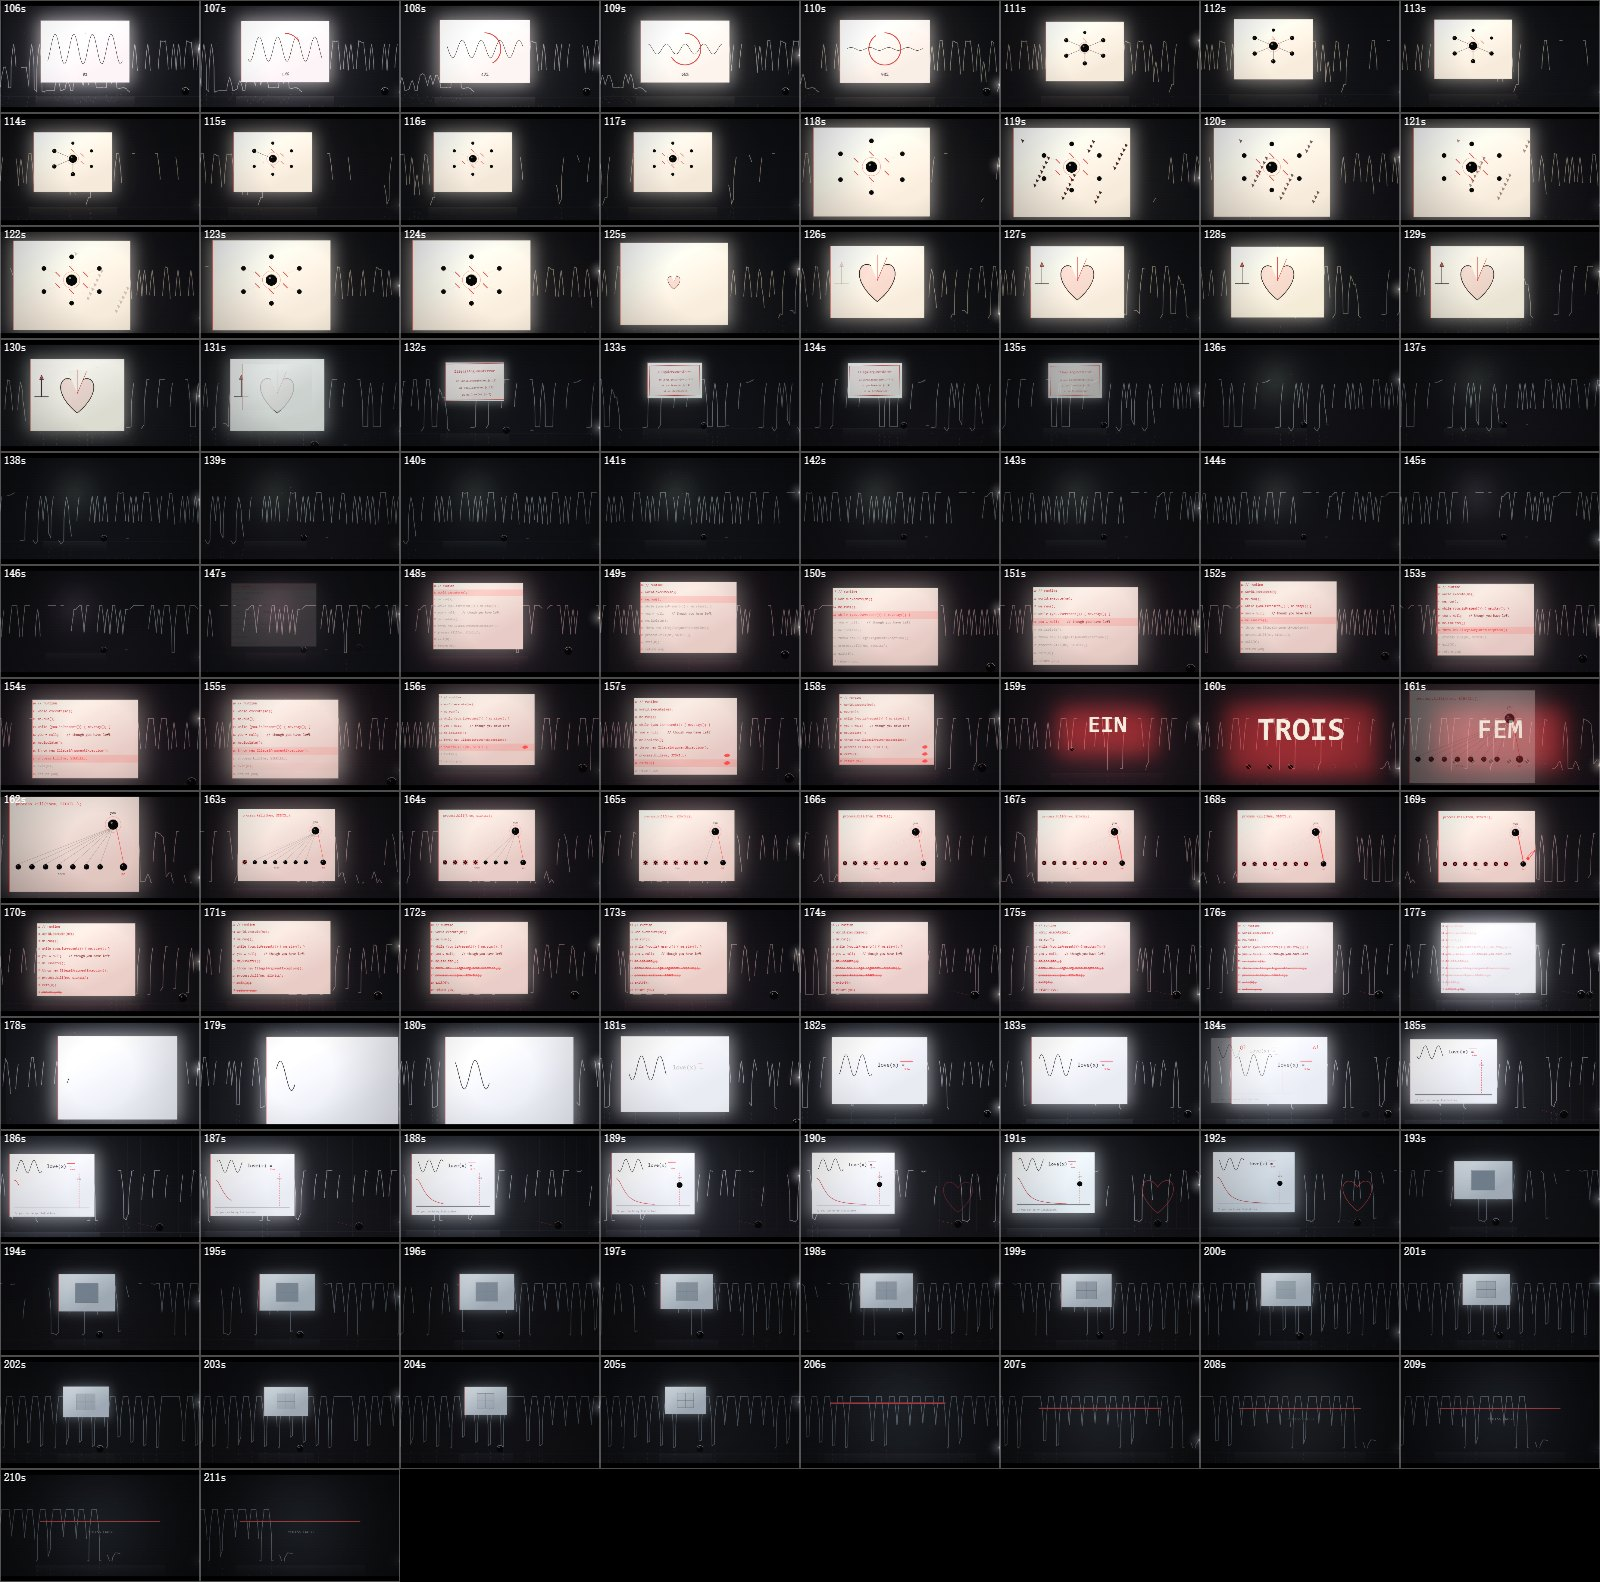
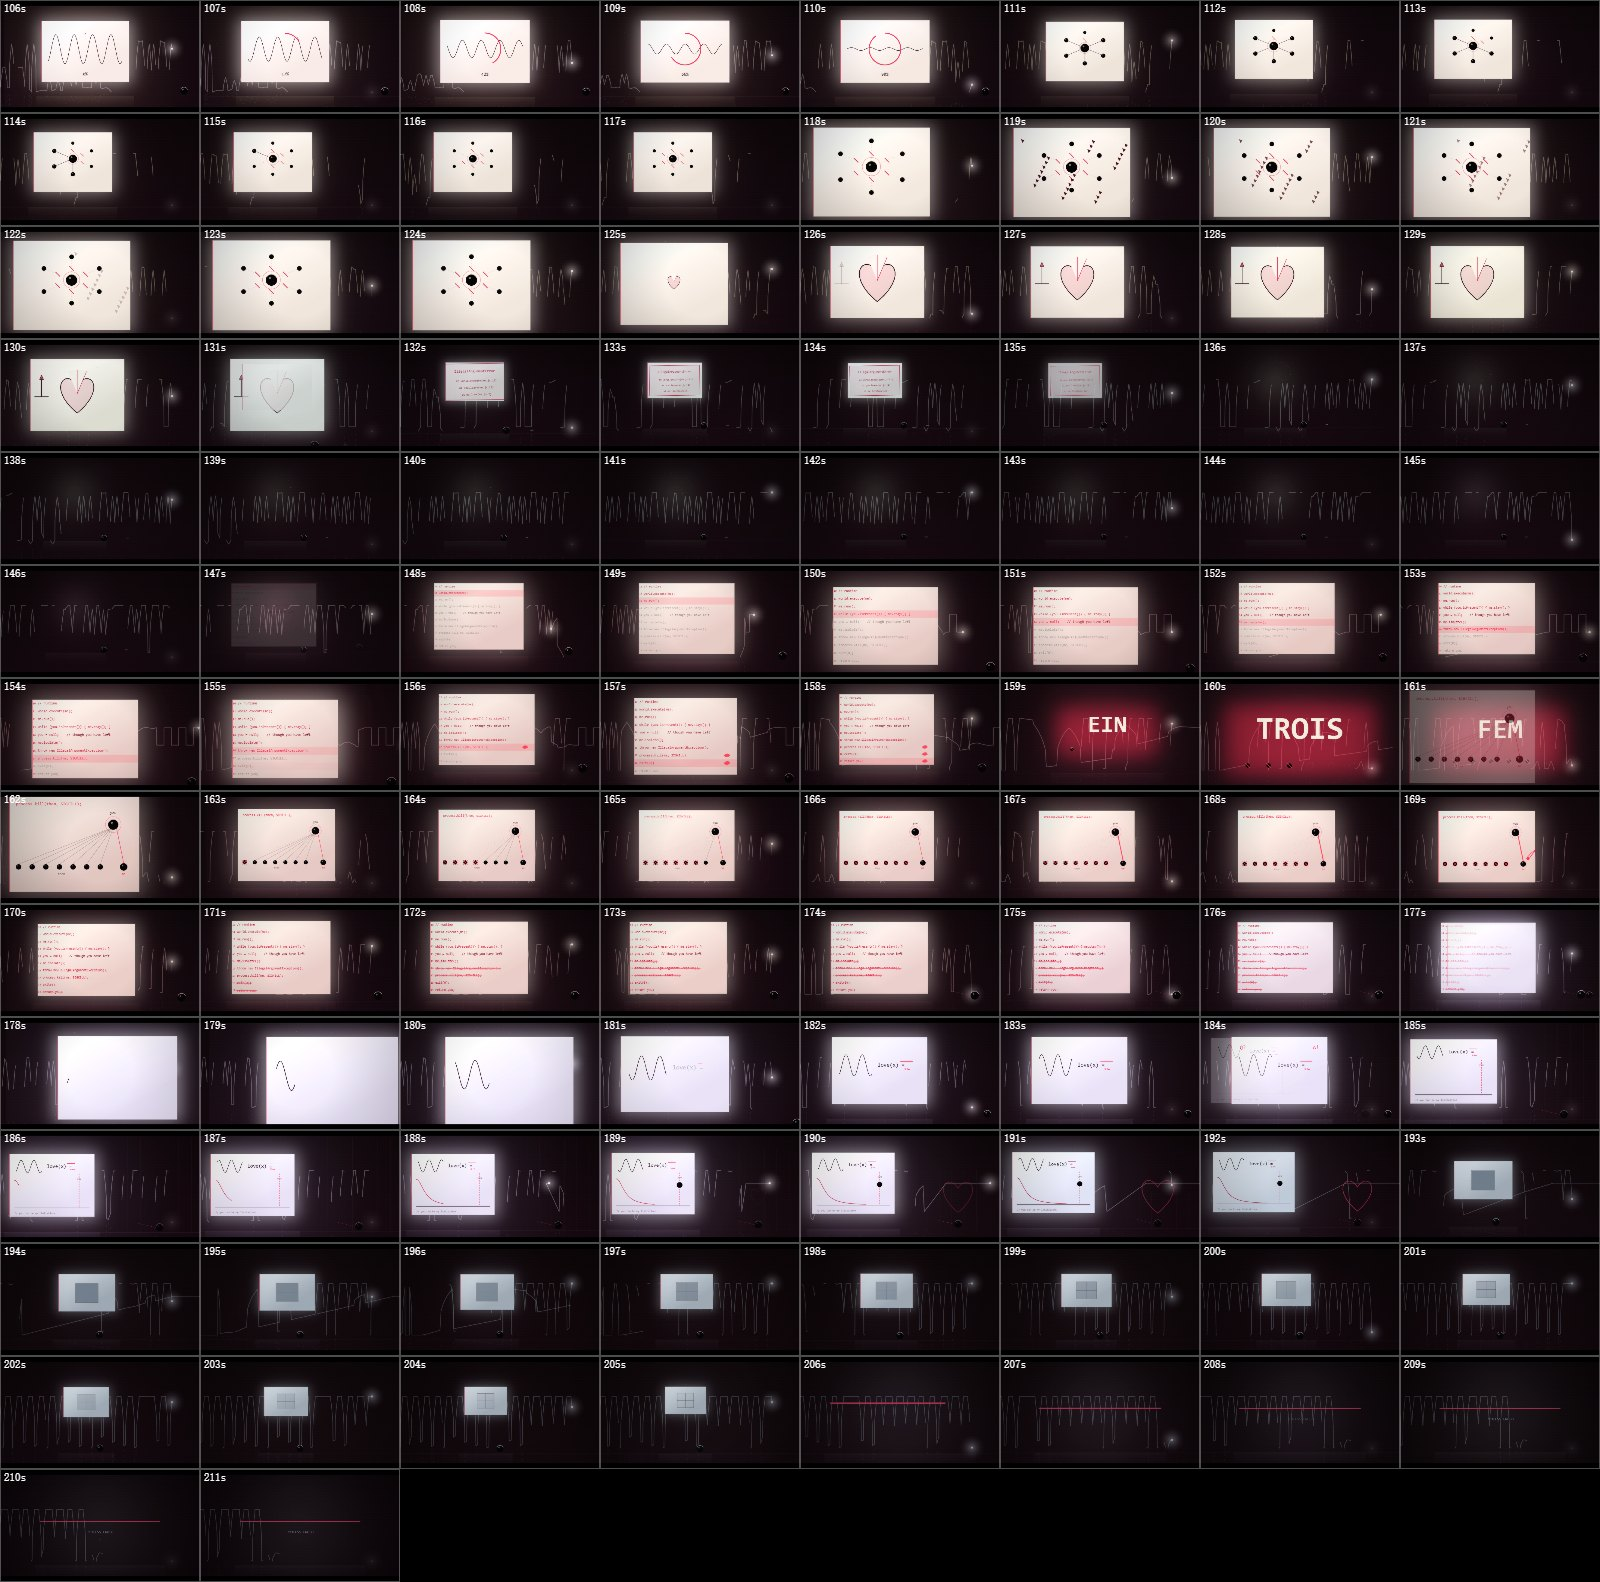
Let the line sing what the page cannot prove
The stroke's shapes were first set to the things the lyric names -- circle, sine, limit,
heart, network -- and every one of them landed next to the same figure already drawn,
labelled, on the sheet. Two identical shapes in one frame is the clutter this line was
meant to replace. The test is therefore "what the page cannot draw": the loop the
simulation closes, the picket of the chant, and the flat horizon the held LO-O-OVE
becomes -- the asymptote the equation spends the ending reaching for.

Also: notes now fade in and out over 0.12 s at their ends, the downbeat push got an
attack and release instead of a step, the display word scales against the camera zoom,
and VERIFY.smoke() steps eight frames before the 250-second sweep -- it caught an
undefined clamp in the camera maths that made every frame throw.

Sweep: 25,429 frames, 0 black, 0 blown, 0 exceptions, 0 unattributed flashes.

diff --git a/mv/line.js b/mv/line.js
@@ -1,20 +1,23 @@
 /* mv/line.js — the two things that come from the recording rather than from the lyric.
 
    1. the melody stroke: one continuous line, always on screen, whose height is the pitch the
-      singer is actually holding. It is the film's spine — the picture's motion and this line are
-      the same measurement, so the image moves *with* the music instead of illustrating words.
-   2. the display word: the hook word being sung (the ALL-CAPS lines of the lyric) rendered as a
-      typographic mass in the room, revealed left-to-right across the note that carries it, with
-      print misregistration. In this genre the text is part of the picture, not a caption under it.
+      singer is actually holding. Where the lyric names a shape — a circle, a sine, a limit that
+      never arrives, a heart, a network — the newest seconds of that same stroke curl into it and
+      carry on. The film therefore has one graphic idea that transforms, not eighteen diagrams.
+   2. the display word: the hook word being sung (the ALL-CAPS lines of the lyric) set as a
+      typographic mass in the room, revealed across the note that carries it, with print
+      misregistration. In this genre the text belongs to the picture, not under it.
 
    Plus the beat clock the camera is locked to: bar phase, downbeat, measured onset weight.
    window.MUSIC comes from analysis/music.html; the chord decode is deliberately unused — its
-   bar-by-bar results (a B-flat-heavy loop for an A-minor song) were not trustworthy. */
+   bar-by-bar results (a B-flat-heavy loop for an A-minor song) did not survive checking. */
 (() => {
 'use strict';
 const M = window.MUSIC, META = M.meta, HOP = META.hop / META.sr;
 const clamp = (v, a, b) => v < a ? a : v > b ? b : v;
+const lerp = (a, b, t) => a + (b - a) * t;
 const LOOK = 7.2;                                   /* seconds of contour visible behind the head */
+const HEAD = 0.86;                                  /* the head sits here, so shapes have room */
 const LO = 55, HI = 1100;                           /* the pitch range the rail spans */
 
 /* pitch in Hz at t; 0 when the tracker found nothing. The exported contour is held for four
@@ -27,10 +30,9 @@ function pitch(t) {
   const k = Math.floor(i / STRIDE), f = i / STRIDE - k;
   const a = M.f0[k * STRIDE], b = M.f0[(k + 1) * STRIDE];
   if (!a || !b) return 0;
-  const q = ((a + (b - a) * f) + (a + b) * 0.25) / 2.5 / 255 * HI;   /* one light smoothing tap */
+  const q = ((a + (b - a) * f) + (a + b) * 0.25) / 2.5 / 255 * HI;
   return q > LO ? q : 0;
 }
-/* onset weight of the beat nearest before t, 0..1 — measured, not assumed */
 function beatAt(t) {
   const B = M.beat;
   let i = 0, lo = 0, hi = B.length - 1;
@@ -38,6 +40,7 @@ function beatAt(t) {
   const next = B[i + 1] === undefined ? B[i] + 60 / META.bpm : B[i + 1];
   return { i, t0: B[i], next, phase: clamp((t - B[i]) / (next - B[i]), 0, 1),
            w: (M.beatOn[i] || 0) / 255, bar: Math.floor((i - META.root) / 4),
+           barT0: B[Math.max(0, i - (((i - META.root) % 4 + 4) % 4))],
            inBar: ((i - META.root) % 4 + 4) % 4 };
 }
 /* snap a cut to the nearest bar line when it is already within a quarter of a beat of one */
@@ -46,58 +49,124 @@ function onBar(t) {
   const b = M.beat[0] + k * sp;
   return Math.abs(b - t) < 60 / META.bpm * 0.25 ? b : t;
 }
-
 function rgba(h, a) {
   return `rgba(${parseInt(h.slice(1, 3), 16)},${parseInt(h.slice(3, 5), 16)},${parseInt(h.slice(5, 7), 16)},${a})`;
 }
 
+/* ---------------- the shapes the line takes ---------------- */
+/* Deliberately NOT the things the page diagrams. The sheet already draws the circle, the sine,
+   the limit, the heart and the network, labelled — that is the proof. If the stroke took the
+   same shapes the film would have two of everything, which is the clutter this line replaced.
+   So the line only ever forms the three figures the page cannot: the dome of PROTECTION, the
+   picket of the EXECUTION chant, and the flat horizon the held LO-O-OVE keeps reaching for. */
+const SHAPES = [
+  { at: 13.89, d: 2.4, kind: 'loop', note: 'let us begin the SIMULATION' },
+  { at: 147.66, d: 7.4, kind: 'bars', note: 'EXECUTION x 12' },
+  { at: 187.66, d: 3.2, kind: 'flat', note: 'LO-O-OVE, held' },
+];
+function shapePath(kind, s) {
+  if (kind === 'loop') { const a = -Math.PI / 2 + s * Math.PI * 2; return [Math.cos(a), Math.sin(a) * 0.82]; }
+  if (kind === 'bars') return [s * 2 - 1, (Math.floor(s * 9) % 2 ? -0.82 : 0.82)];
+  if (kind === 'flat') return [s * 2 - 1, -0.5];             /* the asymptote, at last */
+  return [0, 0];
+}
+/* how deep into a shape a *point* is, given when the line was drawn there. The blend is a
+   property of the point, not of the playhead: the stroke draws the figure once and then carries
+   it leftwards, unwinding back into pitch as it nears the edge of the frame. Gating on the
+   playhead instead made the whole figure snap back to the line in one frame. */
+function shapeBlend(u) {
+  for (const sh of SHAPES) {
+    const s = (u - sh.at) / sh.d;
+    if (s < 0 || s > 1) continue;
+    return { kind: sh.kind, s };
+  }
+  return null;
+}
+
 /* ---------------- the melody stroke ---------------- */
-/* y is log-pitch, x is time; the head rides the playhead, the tail is the last LOOK seconds,
-   and a dashed mirror falls below the rail the way the page's light falls onto the floor. */
-function melody(g, t, W, H, pal) {
+function melody(g, t, W, H, pal, camZ) {
   const rail = H * 0.665, span = H * 0.30;
-  const xOf = (u) => (u - (t - LOOK)) / LOOK * W;
+  const xOf = (u) => (u - (t - LOOK)) / LOOK * W * HEAD;
   const yOf = (hz) => rail - clamp(Math.log2(Math.max(LO, hz) / LO) / Math.log2(HI / LO), 0, 1) * span;
   const step = LOOK / 900;
+  let shown = null;
   const pts = [];
   for (let u = t - LOOK; u <= t + 1e-6; u += step) {
     const hz = pitch(u);
-    pts.push({ x: xOf(u), y: hz ? yOf(hz) : rail, live: hz > 0 });
+    let x = xOf(u), y = hz ? yOf(hz) : rail, live = hz > 0;
+    const sh = shapeBlend(u);
+    if (sh) {
+      /* park the figure in the dark band to the right of the sheet. The page already carries the
+         labelled diagram — the proof — so the stroke's shape must not compete with it; the line
+         is the performance, and it takes the shape it is singing about out in the room. */
+      const rad = Math.min(span * 0.5, W * 0.075);
+      const wide = sh.kind === 'bars' || sh.kind === 'flat';      const ax = rad * (wide ? 2.2 : 1), ay = rad * (wide ? 0.7 : 1);
+      const sx = W * 0.875, cy = rail - span * 0.52;
+      const q = shapePath(sh.kind, sh.s);
+      const unwind = clamp((t - u - (LOOK - 2.4)) / 1.5, 0, 1);
+      const k = clamp(sh.s / 0.06, 0, 1) * (1 - unwind);
+      x = lerp(x, sx + q[0] * ax, k);
+      y = lerp(y, cy + q[1] * ay, k);
+      live = true;
+      if (k > 0.25) shown = sh.kind;
+    }
+    pts.push({ x, y, live, u });
   }
-  const stroke = (mirror, alpha, dash) => {
+  /* fade each run in and out over 0.12 s at its ends, so a note starting or stopping cannot
+     register as a one-frame flash — the sweep caught exactly that at 50.16 s */
+  const RAMP = 0.12;
+  for (let i = 0; i < pts.length; i++) {
+    if (!pts[i].live) { pts[i].a = 0; continue; }
+    let d = 0;
+    while (d < 8 && pts[i - d - 1] && pts[i - d - 1].live) d++;
+    const back = d * step;
+    let e = 0;
+    while (e < 8 && pts[i + e + 1] && pts[i + e + 1].live) e++;
+    pts[i].a = clamp(Math.min(back, e) / RAMP, 0, 1);
+  }
+  const stroke = (mirror, base, dash) => {
     g.save();
-    g.strokeStyle = rgba(mirror ? pal.glow : pal.rim, alpha);
+    g.strokeStyle = rgba(mirror ? pal.glow : pal.rim, base);
     g.lineWidth = mirror ? 1.2 : 2.3; g.lineJoin = 'round'; g.lineCap = 'round';
     if (dash) g.setLineDash([7, 9]);
-    g.beginPath();
-    let pen = false;
+    let run = [];
+    const flush = () => {
+      if (run.length > 1) {
+        let a = 0;
+        for (const p of run) a = Math.max(a, p.a);
+        if (a > 0.02) {
+          g.globalAlpha = a;
+          g.beginPath();
+          run.forEach((p, i) => { const y = mirror ? rail + (rail - p.y) * 0.62 : p.y;
+            i ? g.lineTo(p.x, y) : g.moveTo(p.x, y); });
+          g.stroke();
+        }
+      }
+      run = [];
+    };
     for (const p of pts) {
-      const y = mirror ? rail + (rail - p.y) * 0.62 : p.y;
-      if (!p.live) { pen = false; continue; }
-      pen ? g.lineTo(p.x, y) : (g.moveTo(p.x, y), pen = true);
+      if (!p.live) { flush(); continue; }
+      if (run.length && Math.abs(p.a - run[run.length - 1].a) > 0.12) flush();
+      run.push(p);
     }
-    g.stroke(); g.restore();
+    flush(); g.restore();
   };
-  stroke(false, 0.5, false);                                  /* the sung line: one solid stroke */
-  stroke(true, 0.17, true);                                   /* its reflection: dashed, faint */
-  /* the rail itself: one hairline, so the stroke has something to sit on */
+  stroke(false, 0.62, false);                                 /* the sung line: one solid stroke */
+  stroke(true, 0.2, true);                                    /* its reflection: dashed, faint */
   g.strokeStyle = rgba(pal.rim, 0.1); g.lineWidth = 1;
   g.beginPath(); g.moveTo(0, rail); g.lineTo(W, rail); g.stroke();
-  /* the head: where the singer is right now */
-  const hz = pitch(t), hy = hz ? yOf(hz) : rail;
+  const last = pts[pts.length - 1], hy = last.y;
   g.save(); g.globalCompositeOperation = 'lighter';
-  const halo = g.createRadialGradient(W - 2, hy, 0, W - 2, hy, 46);
-  halo.addColorStop(0, rgba(pal.page, hz ? 0.5 : 0.1)); halo.addColorStop(1, 'rgba(0,0,0,0)');
-  g.fillStyle = halo; g.fillRect(W - 48, hy - 48, 96, 96);
+  const halo = g.createRadialGradient(last.x, hy, 0, last.x, hy, 46);
+  halo.addColorStop(0, rgba(pal.page, last.live ? 0.5 : 0.1)); halo.addColorStop(1, 'rgba(0,0,0,0)');
+  g.fillStyle = halo; g.fillRect(last.x - 48, hy - 48, 96, 96);
   g.restore();
-  g.fillStyle = rgba(hz ? pal.page : pal.rim, hz ? 0.9 : 0.25);
-  g.beginPath(); g.arc(W - 2, hy, hz ? 3.4 : 2.2, 0, Math.PI * 2); g.fill();
-  return { rail, hy, live: hz > 0 };
+  g.fillStyle = rgba(last.live ? pal.page : pal.rim, last.live ? 0.9 : 0.25);
+  g.beginPath(); g.arc(last.x, hy, last.live ? 3.4 : 2.2, 0, Math.PI * 2); g.fill();
+  return { rail, hy, live: last.live, shape: shown };
 }
 
 /* ---------------- the display word ---------------- */
-/* Hook words are the ALL-CAPS lines of the lyric — the ones the melody holds a long note on.
-   They are revealed across the window the note occupies, in the room, above the rail. */
 let HOOKS = null;
 function hooks(LYRICS) {
   if (HOOKS) return HOOKS;
@@ -109,30 +178,31 @@ function hooks(LYRICS) {
   });
   return HOOKS;
 }
-function display(g, t, W, H, pal, LYRICS) {
+function display(g, t, W, H, pal, LYRICS, camZ) {
   const hs = hooks(LYRICS);
   const h = hs.find((x) => t >= x.from && t < x.to);
   if (!h) return;
   const u = clamp((t - h.from) / (h.to - h.from), 0, 1);
-  const size = Math.min(H * 0.095, W * 0.07);
-  const x = W * 0.055, y = H * 0.235;
+  /* the tighter the shot, the smaller the word: at z=1.5 the sheet covers most of the frame and
+     a full-size word would be invisible behind the light */
+  const fit = clamp(1.06 / (camZ || 1), 0.6, 1.06);
+  const size = Math.min(H * 0.095, W * 0.07) * fit;
+  const x = W * 0.045, y = H * 0.2;
   g.save();
   g.font = `300 ${size}px Georgia,"Times New Roman",serif`;
   g.textAlign = 'left'; g.textBaseline = 'middle';
   g.beginPath(); g.rect(0, 0, x + 12 + g.measureText(h.w).width * u + 4, H); g.clip();
-  /* misregistration: the plate is laid down twice, a couple of pixels apart, in the two inks a
-     press would be out of register with */
   g.globalAlpha = 0.55; g.fillStyle = rgba(pal.accent, 0.6); g.fillText(h.w, x - 5, y + 3);
   g.fillStyle = rgba(pal.glow, 0.55); g.fillText(h.w, x + 5, y - 3);
   g.globalAlpha = 1; g.fillStyle = rgba(pal.rim, 0.95); g.fillText(h.w, x, y);
   g.restore();
   g.save();
   g.globalAlpha = clamp(u * 2); g.fillStyle = rgba(pal.rim, 0.34);
-  g.font = `300 ${Math.round(size * 0.19)}px Georgia,serif`;
+  g.font = `300 ${Math.round(size * 0.2)}px Georgia,serif`;
   g.textBaseline = 'middle';
-  g.fillText(h.cn, x + 2, y + size * 0.62);
+  g.fillText(h.cn, x + 2, y + size * 0.66);
   g.restore();
 }
 
-window.MVL = { melody, display, pitch, beatAt, onBar, hooks, LOOK };
+window.MVL = { melody, display, pitch, beatAt, onBar, hooks, SHAPES, LOOK };
 })();

diff --git a/mv/mv.js b/mv/mv.js
@@ -150,7 +150,13 @@ function applyCamera(g, fr, t) {
      anybody having to author it per shot. */
   const bt = window.MUSIC ? MVL.beatAt(t) : null;
   const breath = bt ? 1 + 0.016 * Math.sin(bt.phase * Math.PI) : 1;
-  const accent = bt && bt.inBar === 0 ? bt.w * 0.026 : 0;
+  /* the push has an attack and a release. Stepping straight to full scale on the downbeat was
+     the last unattributed one-frame spike in the sweep — a gesture you should feel, not see */
+  let accent = 0;
+  if (bt) {
+    const since = Math.max(0, t - bt.barT0);
+    accent = bt.w * 0.026 * clamp01(since / 0.06) * Math.exp(-Math.max(0, since - 0.06) / 0.22);
+  }
   const scale = fitScale() * fr.z * breath * (1 + accent) * (1 + (fr.shake || 0) * punch * 0.012);
   let sx = 0, sy = 0;
   if (fr.shake) { const a = fr.shake * punch * 13; sx = Math.sin(t * 33.7) * a; sy = Math.cos(t * 27.1) * a; }
@@ -500,14 +506,14 @@ function render(ts) {
   updatePalette(t, Math.min(0.5, wall));
   advanceClock(t, dt);
   drawRoom(t);
+  let idx = SCENES.findIndex(s => t >= s.from && t < s.to);
+  if (idx < 0) idx = SCENES.length - 1;
+  const cam = cameraFor(t);
   /* the two layers that come from the recording go in *behind* the sheet. The paper is the light
      source, so the stroke and the word belong to the room and the page covers whatever runs
      behind it — the word reads as emerging out of the light, not as an overlay on top of it. */
   bx.setTransform(1, 0, 0, 1, 0, 0);
-  if (window.MUSIC) { MVL.melody(bx, t, W, HH, pal); MVL.display(bx, t, W, HH, pal, LYRICS); }
-  let idx = SCENES.findIndex(s => t >= s.from && t < s.to);
-  if (idx < 0) idx = SCENES.length - 1;
-  const cam = cameraFor(t);
+  if (window.MUSIC) { MVL.melody(bx, t, W, HH, pal, cam.z); MVL.display(bx, t, W, HH, pal, LYRICS, cam.z); }
   const nxt = SCENES[idx + 1];
   const dis = dissolveLen(nxt ? nxt.from : t);      /* the chorus joins tighter than the intro */
   if (nxt && nxt.from - t < dis) {

diff --git a/analysis/verify.js b/analysis/verify.js
@@ -324,6 +324,15 @@ async function report() {
   return out;
 }
 
-window.VERIFY = { start, status, stats, report, timbre, flickers, shot };
+/* Eight frames, one per kind of moment, stepped and checked for a throw. Cheap enough to run
+   before the 250-second sweep and worth it: a ReferenceError in the camera maths made every
+   frame of one sweep throw, and this catches that in a second instead of at the end. */
+function smoke() {
+  const ts = [0.5, 4, 33, 50.2, 118, 150, 189, 210], errs = [];
+  for (const t of ts) { try { window.MV.pin(t); window.MV.step(t * 1000); } catch (e) { errs.push(t + ': ' + e.message); } }
+  return errs.length ? errs : ['ok'];
+}
+
+window.VERIFY = { start, status, stats, report, timbre, flickers, shot, smoke };
 return 'VERIFY ready';
 })();
